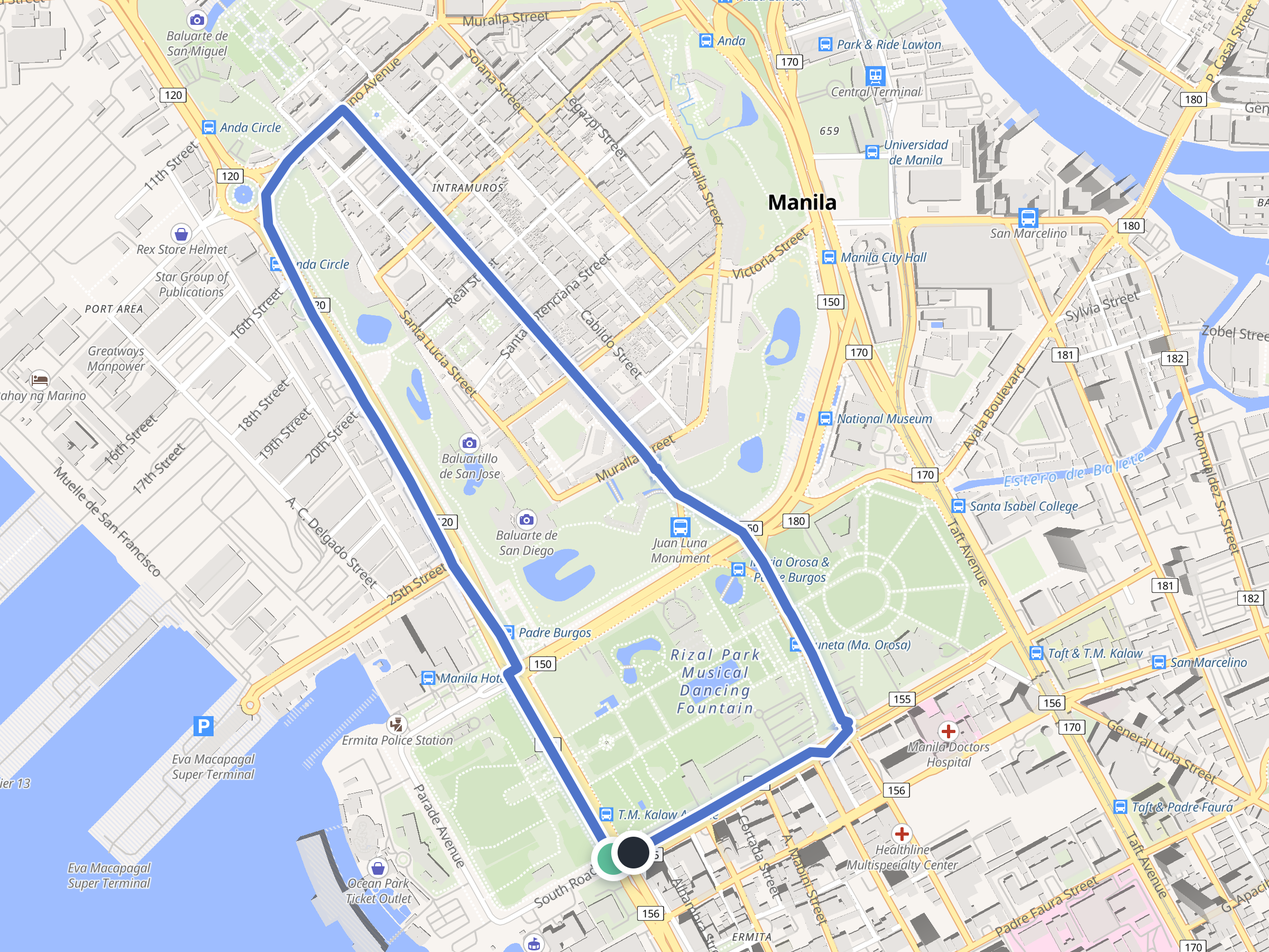
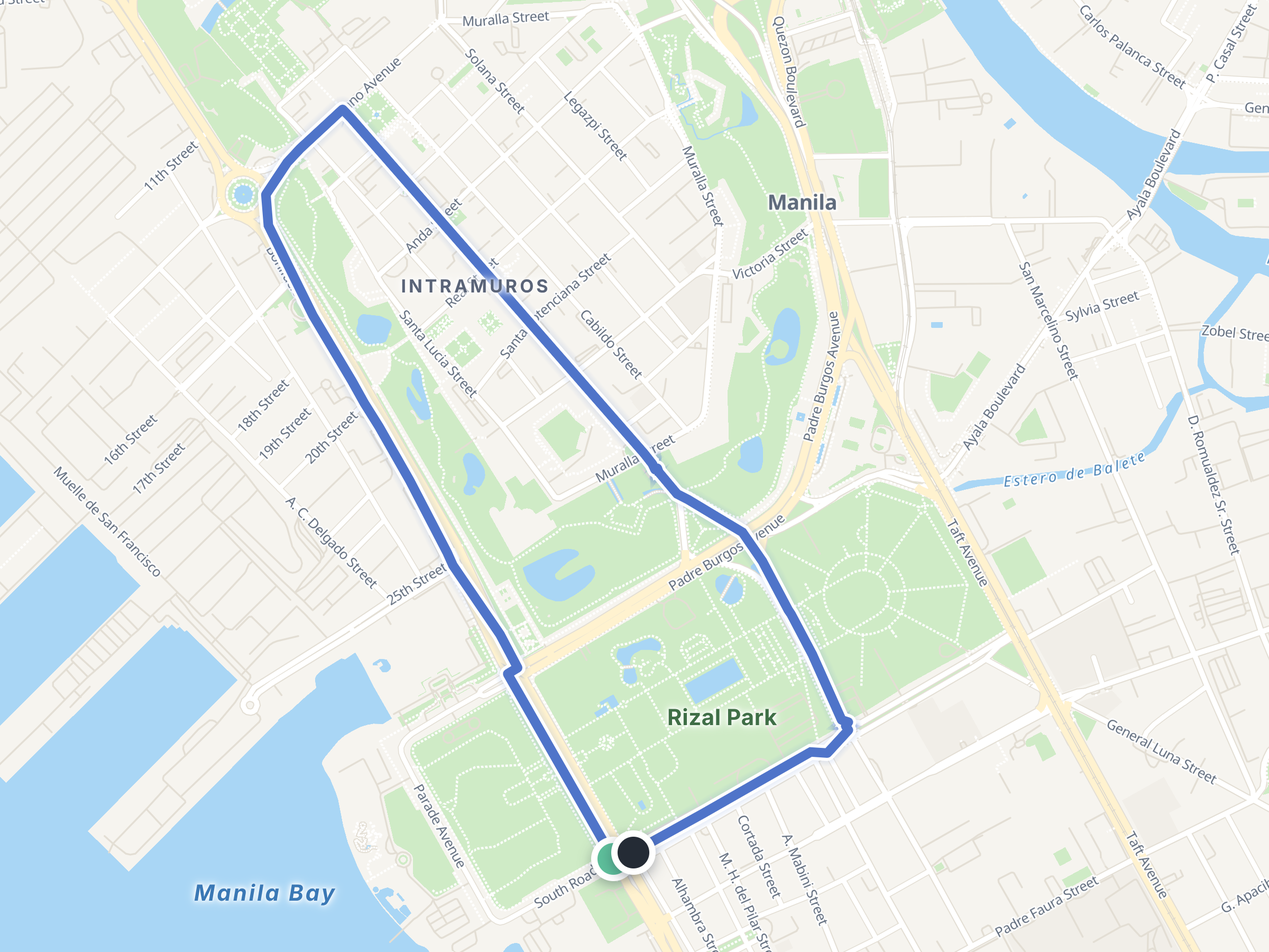
Pubmat 4: clean, calm map restyle with landmark labels
Claude-Session: https://claude.ai/code/session_016WqiHGaaMrz7AyKJzEbe8r

diff --git a/marketing/pubmats/map.html b/marketing/pubmats/map.html
@@ -2,6 +2,7 @@
 <!-- Sample Manila route for pubmat 4, snapped to real OpenStreetMap street geometry (OpenFreeMap tiles). -->
 <link rel="stylesheet" href="/node_modules/maplibre-gl/dist/maplibre-gl.css">
 <style>html,body{margin:0;background:#EAF2FC}#m{width:1200px;height:900px}
+.lm{font:700 21px/1.1 "Nunito",system-ui,sans-serif;letter-spacing:.3px;color:#3F6E46;text-shadow:0 0 3px #fff,0 0 6px #fff,0 0 10px #fff;white-space:nowrap;pointer-events:none}.lm.w{color:#3A78B5;font-style:italic;letter-spacing:2px}.lm.d{color:#5A6478;letter-spacing:2.5px;font-size:17px;text-transform:uppercase}
 .pin{width:30px;height:30px;border-radius:50%;border:6px solid #fff;box-shadow:0 4px 12px rgba(27,37,56,.35)}</style></head><body><div id="m"></div>
 <script type="module">
 import * as maplibre from "/node_modules/maplibre-gl/dist/maplibre-gl.mjs";
@@ -10,6 +11,29 @@ const map = new maplibre.Map({ container: "m", style: "https://tiles.openfreemap
 const R = 6371000, rad = Math.PI / 180;
 const xy = (p, o) => [(p[0] - o[0]) * rad * R * Math.cos(o[1] * rad), (p[1] - o[1]) * rad * R]; // [lng,lat] → metres
 const dist = (a, b) => { const [x, y] = xy(a, b); return Math.hypot(x, y); };
+
+// ── clean, calm basemap restyle (same OpenStreetMap data, softer palette, less clutter) ──
+function restyle() {
+  const set = (id, prop, v) => { if (map.getLayer(id)) { try { map.setPaintProperty(id, prop, v); } catch {} } };
+  const hide = (id) => map.getLayer(id) && map.setLayoutProperty(id, "visibility", "none");
+  set("background", "background-color", "#F6F4EF");
+  for (const id of ["park", "landcover_grass", "landcover_wood", "landuse_pitch", "landuse_cemetery"]) { set(id, "fill-color", "#CFEBC6"); set(id, "fill-opacity", 1); }
+  for (const id of ["landuse_residential", "landuse_hospital", "landuse_school", "landcover_sand"]) set(id, "fill-color", "#F1EEE8");
+  set("water", "fill-color", "#A9D6F5");
+  for (const id of ["waterway_river", "waterway_other", "waterway_tunnel"]) set(id, "line-color", "#A9D6F5");
+  set("building", "fill-color", "#E9E6DF"); set("building", "fill-outline-color", "#E1DDD5");
+  for (const l of map.getStyle().layers) {
+    const id = l.id;
+    if (/casing/.test(id)) set(id, "line-color", "#E3DED4");
+    else if (/^(road|bridge|tunnel)_(motorway|trunk_primary)/.test(id)) set(id, "line-color", "#FFF2CF");
+    else if (/^(road|bridge|tunnel)_/.test(id) && l.type === "line") set(id, "line-color", "#FFFFFF");
+    if (/rail/.test(id)) set(id, "line-color", "#DAD6CE");
+    if (/^(poi_|highway-shield|road_shield|road_one_way|building-3d|park_outline|aeroway|boundary|road_area_pattern)/.test(id)) hide(id);
+    if (l.type === "symbol") { set(id, "text-color", "#5F6B7C"); set(id, "text-halo-color", "rgba(255,255,255,.92)"); set(id, "text-halo-width", 1.6); }
+  }
+  hide("label_other"); hide("water_name_point_label"); // replaced by the landmark labels below
+  for (const id of ["water_name_point_label", "water_name_line_label", "waterway_line_label"]) set(id, "text-color", "#4E86B8");
+}
 let roads = null;
 function seg(name, from, to, corridor = 40) {
   const pts = (roads[name] ?? []).flat();
@@ -21,7 +45,7 @@ function seg(name, from, to, corridor = 40) {
   const out = [from]; for (const q of inside) if (dist(q.p, out[out.length - 1]) > 4) out.push(q.p); out.push(to); return out;
 }
 const snap = (name, ll) => { const pts = (roads[name] ?? []).flat(); return pts.reduce((b, p) => (dist(p, ll) < dist(b, ll) ? p : b), pts[0]); };
-map.on("load", () => setTimeout(() => {
+map.on("load", () => { restyle(); }); map.on("load", () => setTimeout(() => {
   const src = Object.keys(map.getStyle().sources).find((k) => map.getStyle().sources[k].type === "vector");
   roads = {}; for (const f of map.querySourceFeatures(src, { sourceLayer: "transportation_name" })) { if (!f.properties?.name || !/Line/.test(f.geometry.type)) continue; const cs = f.geometry.type === "LineString" ? [f.geometry.coordinates] : f.geometry.coordinates; (roads[f.properties.name] ??= []).push(...cs); }
   // waypoints [lng, lat], each snapped onto the named street
@@ -53,6 +77,8 @@ map.on("load", () => setTimeout(() => {
   map.addLayer({ id: "line", type: "line", source: "r", paint: { "line-color": "#4F74C9", "line-width": 9 }, layout: { "line-cap": "round", "line-join": "round" } });
   const pin = (ll, c) => { const d = document.createElement("div"); d.className = "pin"; d.style.background = c; new maplibre.Marker({ element: d }).setLngLat(ll).addTo(map); };
   pin(route[0], "#5DBE9A"); pin(route[route.length - 1], "#242B35");
+  const lm = (txt, ll, cls) => { const d = document.createElement("div"); d.className = "lm " + cls; d.textContent = txt; new maplibre.Marker({ element: d }).setLngLat(ll).addTo(map); };
+  lm("Rizal Park", [120.9790, 14.5822], ""); lm("Intramuros", [120.9748, 14.5893], "d"); lm("Manila Bay", [120.9712, 14.5793], "w");
   map.once("idle", () => { window.__done = true; });
 }, 600));
 </script></body></html>

diff --git a/marketing/pubmats/walkie-pubmat-04-fitness-tracking.html b/marketing/pubmats/walkie-pubmat-04-fitness-tracking.html
@@ -17,7 +17,7 @@
     <div style="position:relative;width:100%;height:100%;border-radius:28px;overflow:hidden;background:url(parts/map.png) 46% 52% / 128% auto no-repeat">
       <div style="position:absolute;left:14px;top:14px;display:flex;align-items:center;gap:10px;background:rgba(255,255,255,.94);padding:10px 16px 10px 10px;border-radius:99px;box-shadow:0 10px 20px -12px rgba(37,52,80,.5)"><span style="width:36px;height:36px" data-part="icon_run"></span><div><b style="font:600 18px Fredoka">Outdoor run</b><div style="font:700 12.5px Nunito;color:#7A889E">Rizal Park · Intramuros · Manila</div></div></div>
       <span class="p-sample" style="right:14px;top:24px">Sample</span>
-      <span style="position:absolute;right:10px;bottom:8px;font:600 9.5px Nunito;color:#5b6577;background:rgba(255,255,255,.8);padding:2px 6px;border-radius:6px">© OpenFreeMap © OpenMapTiles © OpenStreetMap contributors</span>
+      <span style="position:absolute;right:10px;bottom:46px;font:600 9.5px Nunito;color:#5b6577;background:rgba(255,255,255,.8);padding:2px 6px;border-radius:6px">© OpenFreeMap © OpenMapTiles © OpenStreetMap contributors</span>
     </div>
   </div>
   <div class="p-card" style="left:430px;top:690px;width:590px;padding:22px 26px;z-index:12">

diff --git a/marketing/pubmats/build-pubmats-3-4.py b/marketing/pubmats/build-pubmats-3-4.py
@@ -83,7 +83,7 @@ p4=head("Walkie.run — 04 Fitness tracking")+f'''<div class="pm">
     <div style="position:relative;width:100%;height:100%;border-radius:28px;overflow:hidden;background:url(parts/map.png) 46% 52% / 128% auto no-repeat">
       <div style="position:absolute;left:14px;top:14px;display:flex;align-items:center;gap:10px;background:rgba(255,255,255,.94);padding:10px 16px 10px 10px;border-radius:99px;box-shadow:0 10px 20px -12px rgba(37,52,80,.5)"><span style="width:36px;height:36px" data-part="icon_run"></span><div><b style="font:600 18px Fredoka">Outdoor run</b><div style="font:700 12.5px Nunito;color:#7A889E">Rizal Park · Intramuros · Manila</div></div></div>
       <span class="p-sample" style="right:14px;top:24px">Sample</span>
-      <span style="position:absolute;right:10px;bottom:8px;font:600 9.5px Nunito;color:#5b6577;background:rgba(255,255,255,.8);padding:2px 6px;border-radius:6px">© OpenFreeMap © OpenMapTiles © OpenStreetMap contributors</span>
+      <span style="position:absolute;right:10px;bottom:46px;font:600 9.5px Nunito;color:#5b6577;background:rgba(255,255,255,.8);padding:2px 6px;border-radius:6px">© OpenFreeMap © OpenMapTiles © OpenStreetMap contributors</span>
     </div>
   </div>
   <div class="p-card" style="left:430px;top:690px;width:590px;padding:22px 26px;z-index:12">

diff --git a/marketing/pubmats/README.md b/marketing/pubmats/README.md
@@ -25,7 +25,7 @@ Each pubmat gets its own accent so the set isn't monotonously blue:
 
 **The mascot is the real thing.** Every character is rendered straight from the app's components (`src/components/mascot/*`): the same SVG rig, fur, blue eyes, proportions and wardrobe art users see in the app. Each is frozen on an expressive animation frame (waving, running, cheering). The pet shop in #2 is rendered by the app's own isometric engine (`src/components/shop/world.ts`).
 
-**Real map, plausible route (#4).** The map is real OpenStreetMap data via OpenFreeMap. The sample route is snapped to actual street geometry:
+**Real map, plausible route (#4).** The map is real OpenStreetMap data via OpenFreeMap, restyled in a clean, calm palette (pale-blue water, soft parks, white streets, no business clutter, landmark labels).* The sample route is snapped to actual street geometry:
 1. Start at Rizal Park, then Roxas Boulevard → Bonifacio Drive → Anda Circle.
 2. Andres Soriano Avenue → General Luna Street through Intramuros.
 3. Maria Orosa Street → Kalaw Avenue, finishing back at the park.
